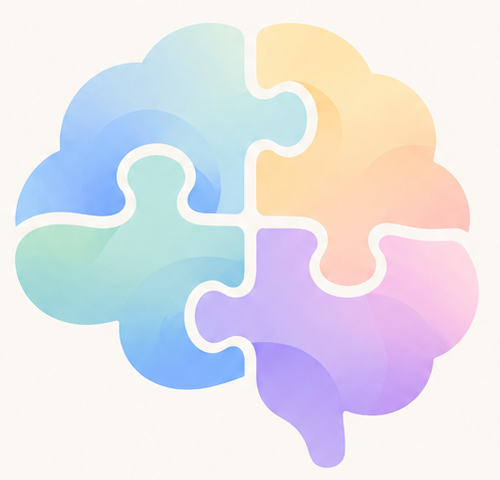
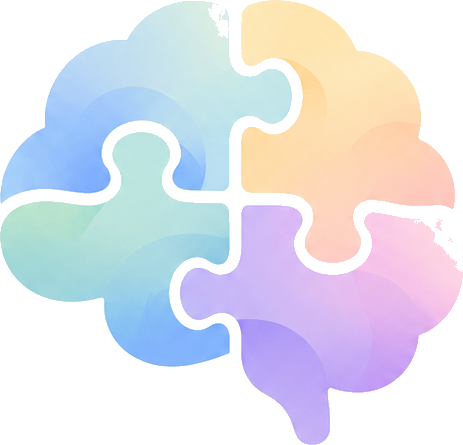
Changes

diff --git a/src/routes/admin.tsx b/src/routes/admin.tsx
@@ -192,7 +192,7 @@ function AdminPage() {
             <p className="mt-1 text-xs text-muted-foreground">{email}</p>
           </div>
           <div className="flex items-center gap-2">
-            <Link to="/avaliacao?admin=1" className="inline-flex items-center gap-2 rounded-full border border-primary/30 bg-primary/5 px-4 py-2 text-sm font-semibold text-primary"><ClipboardCheck className="h-4 w-4" /> Simular teste</Link><button onClick={() => void load()} className="inline-flex items-center gap-2 rounded-full border border-border bg-card px-4 py-2 text-sm font-medium text-ink"><RefreshCw className="h-4 w-4" /> Atualizar</button>
+            <Link to="/avaliacao" search={{ admin: 1 } as never} className="inline-flex items-center gap-2 rounded-full border border-primary/30 bg-primary/5 px-4 py-2 text-sm font-semibold text-primary"><ClipboardCheck className="h-4 w-4" /> Simular teste</Link><button onClick={() => void load()} className="inline-flex items-center gap-2 rounded-full border border-border bg-card px-4 py-2 text-sm font-medium text-ink"><RefreshCw className="h-4 w-4" /> Atualizar</button>
             <button onClick={exportCsv} className="inline-flex items-center gap-2 rounded-full bg-primary px-4 py-2 text-sm font-semibold text-primary-foreground"><Download className="h-4 w-4" /> Exportar CSV</button>
             <button onClick={signOut} className="inline-flex items-center gap-2 rounded-full border border-border bg-card px-4 py-2 text-sm font-medium text-ink"><LogOut className="h-4 w-4" /> Sair</button>
           </div>

diff --git a/src/routes/avaliacao.tsx b/src/routes/avaliacao.tsx
@@ -146,7 +146,7 @@ function Avaliacao() {
     const count = session ? Object.keys(session.answers).length : 0;
     return (
       <Shell>
-        <img src={mark.url} alt="" className="mx-auto h-16 w-16" />
+        <img src="/brand/mark.png" alt="" className="mx-auto h-16 w-16 object-contain" />
         <h1 className="mt-6 font-display text-3xl font-semibold leading-tight text-ink md:text-4xl">Talvez exista uma parte de você que ainda não conseguiu colocar em palavras.</h1>
         <p className="mx-auto mt-4 max-w-md text-base leading-7 text-muted-foreground">
           Esta avaliação foi criada para ajudar você a olhar para alguns padrões do seu jeito de pensar, sentir e viver com mais clareza — sem pressa e sem respostas certas ou erradas.
